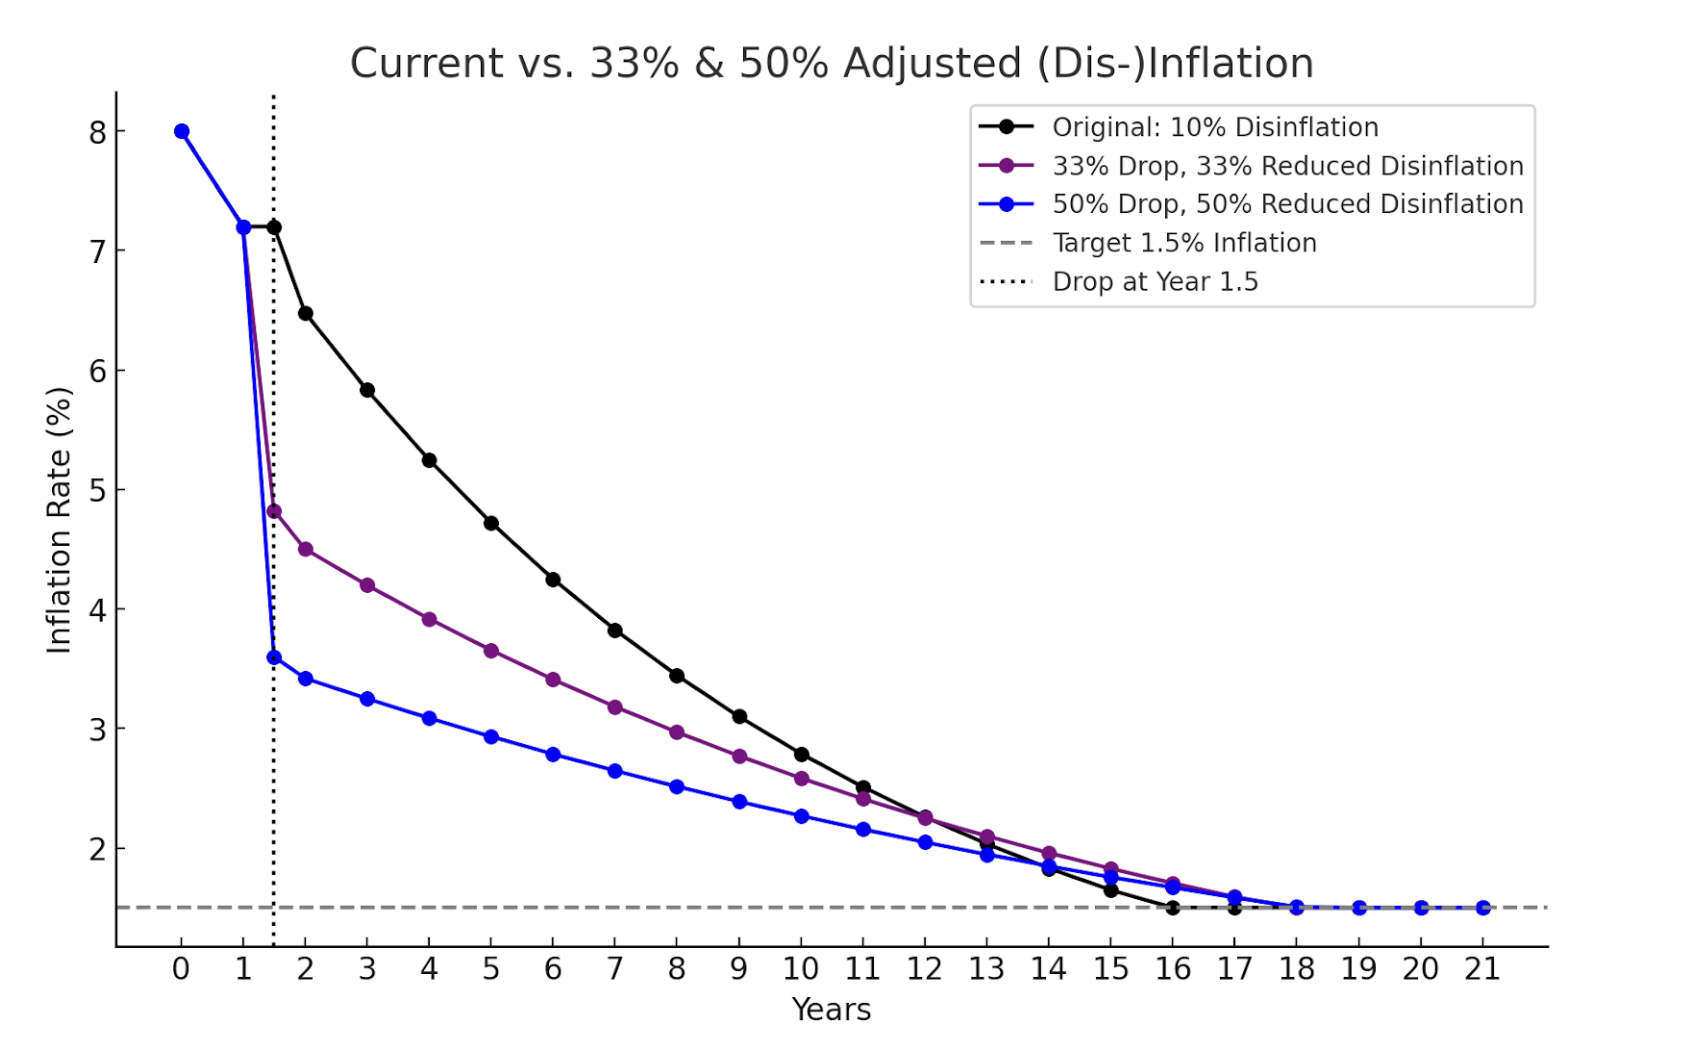
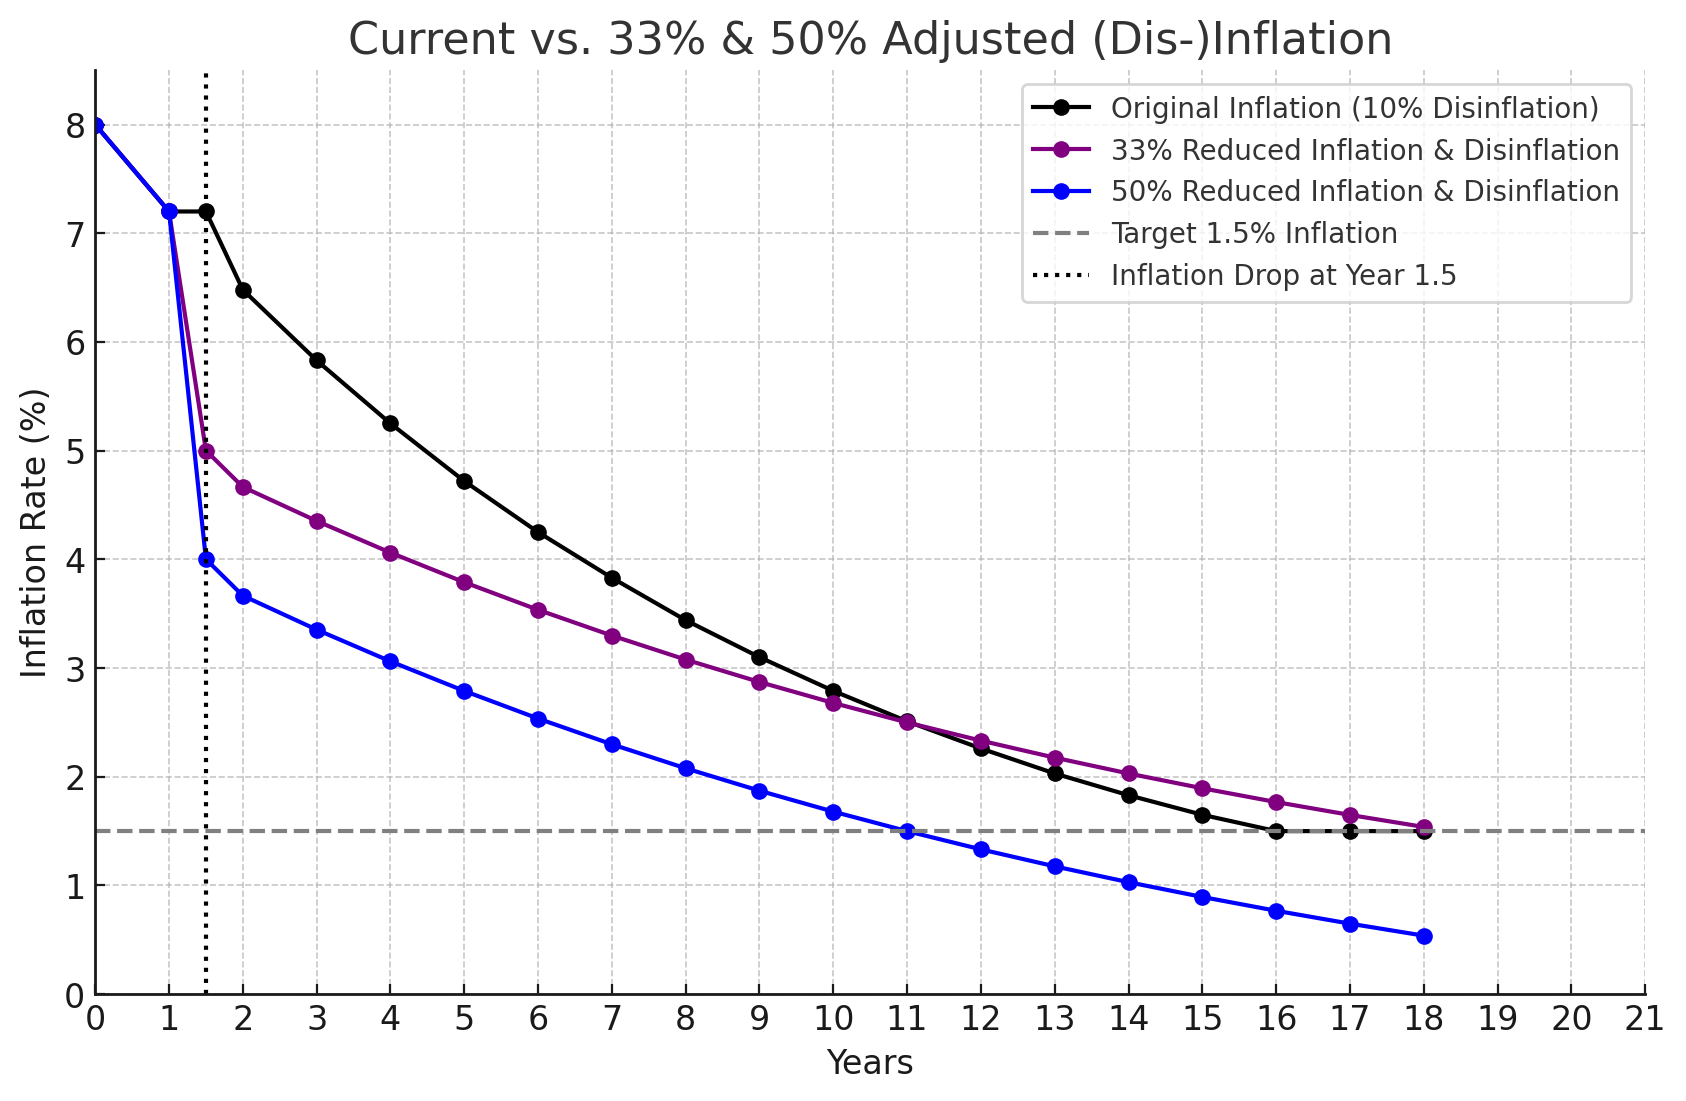
docs: update readme (#255)
* docs: update readme

* docs: update sidebar

* Update cips/README.md

---------

diff --git a/cips/README.md b/cips/README.md
@@ -63,6 +63,8 @@ Read [CIP-1](./cip-1.md) for information on the CIP process.
 | [26](./cip-26.md) | Versioned timeouts | Josh Stein ([@jcstein](https://github.com/jcstein)), Rootul Patel ([@rootulp](https://github.com/rootulp)), Sanaz Taheri ([@staheri14](https://github.com/staheri14) |
 | [27](./cip-27.md) | Block limits for number of PFBs and non-PFBs | Josh Stein ([@jcstein](https://github.com/jcstein)), Nina Barbakadze ([@ninabarbakadze](https://github.com/ninabarbakadze)), rach-id ([@rach-id](https://github.com/rach-id)), Rootul Patel ([@rootulp](https://github.com/rootulp)) |
 | [28](./cip-28.md) | Transaction size limit | Josh Stein ([@jcstein](https://github.com/jcstein)), Nina Barbakadze ([@ninabarbakadze](https://github.com/ninabarbakadze)), Rootul Patel ([@rootulp](https://github.com/rootulp)) |
+| [29](./cip-29.md) | Decrease Inflation and Adjust Disinflation | Dean Eigenmann ([@decanus](https://github.com/decanus)), Marko Baricevic ([@tac0turtle](https://github.com/tac0turtle)) |
+| [30](./cip-30.md) | Prevent Auto-Claiming of Staking Rewards | Dean Eigenmann ([@decanus](https://github.com/decanus)), Marko Baricevic ([@tac0turtle](https://github.com/tac0turtle)) |
 
 ## Contributing
 

diff --git a/cips/SUMMARY.md b/cips/SUMMARY.md
@@ -31,6 +31,8 @@
   - [CIP-26](./cip-26.md)
   - [CIP-27](./cip-27.md)
   - [CIP-28](./cip-28.md)
+  - [CIP-29](./cip-29.md)
+  - [CIP-30](./cip-30.md)
 
 - [Core Devs Call notes](./notes/README.md)
   - [CDC #14](./notes/cdc-14.md)
